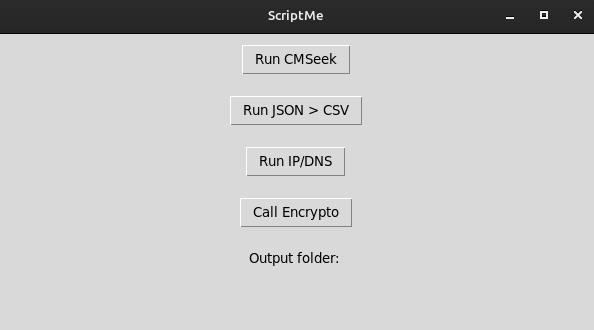
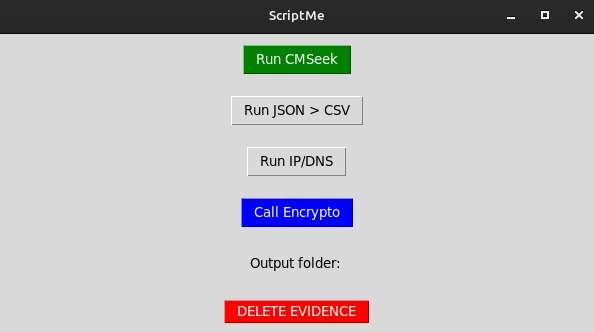
Added a delete button

diff --git a/Projekt/ip_dns.py b/Projekt/ip_dns.py
@@ -1,89 +1,105 @@
+# Ovaj Python kod ima svrhu demonstracije određenih funkcionalnosti pomoću CSV datoteka, radom s mrežom i DNS upitima.
+# Ovaj kod se pruža samo u informativne svrhe i ne predstavlja gotovo rješenje za stvarne primjene.
+# Prije korištenja ovog koda u stvarnom okruženju, preporučuje se pažljiva prilagodba koda specifičnim potrebama,
+# provjera sigurnosnih aspekata i poštivanje pravila o zaštiti podataka. 
+# Autori ovog koda ne snose odgovornost za bilo kakve gubitke ili probleme nastale korištenjem ovog koda.
+
+#################################################################################################################
+
+# Učitavanje potrebnih modula
+import csv  # Modul za rad s CSV datotekama
+import os  # Modul za rad s putanjama i direktorijima
+import socket  # Modul za rad s mrežnim operacijama
+import dns.resolver  # Modul za rad s DNS upitima
+
+
+# Specificiranje imena ulaznog direktorija
 import csv
 import os
 import socket
 import dns.resolver
 
-# Dohvača putanju do root foldera 
+# Dohvaćanje putanje do korijenskog direktorija
 root_folder_path = os.getcwd()
 
-# Specificira ime input foldera
-input_folder_name = 'Projekt/cms_csv'
+# Kreiranje putanje do ulaznog direktorija
+input_folder_name = 'Projekt/cms_csv/'
 
-# Stvara putanju do input foldera
+# Kreiranje putanje do ulaznog direktorija
 input_folder_path = os.path.join(root_folder_path, input_folder_name)
 
-# Specificira ime output foldera
+# Specificiranje imena izlaznog direktorija
 output_folder_name = 'Projekt/IP-DNS'
 
 # Stvara putanju do output foldera
 output_folder_path = os.path.join(root_folder_path, output_folder_name)
 
-# Dohvaća listu svih csv datoteka u input folderu
+# Kreiranje izlaznog direktorija ako ne postoji
 if not os.path.exists(output_folder_path):
     os.makedirs(output_folder_path)
 
-# Dohvaća listu svih csv datoteka u input folderu
+# Dohvaćanje liste svih CSV datoteka u ulaznom direktoriju
 csv_files = [file for file in os.listdir(input_folder_path) if file.endswith('.csv')]
-
+    
 # Petlja prolazi kroz svaku CSV datoteku
 for file in csv_files:
-    # Konstruira putanju za input datoteku
+    # Konstruiranje putanje za ulaznu datoteku
     input_file_path = os.path.join(input_folder_path, file)
 
-    # Izvlači ime datoteke bez ekstenzija
+    # Izvlačenje imena datoteke bez ekstenzije
     file_name = os.path.splitext(file)[0]
 
-    # Konstruira output datoteku sa sufiksom "IPdns"
+    # Konstruiranje imena izlazne datoteke s sufiksom "IP-dns"
     output_file_name = file_name + "_IP-dns.csv"
 
-    # Konstruira putanju za output datoteku
+    # Konstruiranje putanje za izlaznu datoteku
     output_file_path = os.path.join(output_folder_path, output_file_name)
 
-    # Otvara input CSV datoteku
+    # Otvaranje ulazne CSV datoteke
     with open(input_file_path, 'r') as csv_file:
-        # Kreira CSV reader
+        # Kreiranje CSV čitača
         reader = csv.DictReader(csv_file)
 
-        # Kreira listu za spremanje ekstrahiranih podataka
+        # Kreiranje liste za spremanje izvučenih podataka
         data = []
 
-        # Petlja koja prolazi svakim redom CSV datoteke
+        # Petlja koja prolazi kroz svaki redak CSV datoteke
         for row in reader:
-            # Provjerava da li 'url' ključ postoji
+            # Provjera postoji li ključ 'url'
             if 'url' in row:
-                # Izvlači URL iz 'url' stupca
+                # Izvlačenje URL-a iz stupca 'url'
                 url = row['url']
 
-                # Uklanja 'https://' prefiks sa URL-a
+                # Uklanjanje prefiksa 'https://' iz URL-a
                 if url.startswith('https://'):
                     url = url[8:]
 
-                # Pronalazi IP adresu za dobiveni URL
+                # Pronalaženje IP adrese za dobiveni URL
                 try:
                     ip_address = socket.gethostbyname(url)
                 except socket.gaierror:
-                    ip_address = "Not Found"
+                    ip_address = "Nije pronađeno"
 
-                # Pronalazi NS zapise adresu za dobiveni URL
+                # Pronalaženje NS zapisa za dobiveni URL
                 try:
                     ns_records = dns.resolver.resolve(url, 'NS')
                     ns_records = [ns.target.to_text() for ns in ns_records]
                 except (dns.resolver.NoAnswer, dns.resolver.NXDOMAIN, dns.exception.DNSException):
-                    ns_records = "Not Found"
+                    ns_records = "Nije pronađeno"
 
                 # Dodavanje podataka u listu
-                data.append({'URL': url, 'IP Address': ip_address, 'NS Records': ns_records})
+                data.append({'URL': url, 'IP adresa': ip_address, 'NS zapisi': ns_records})
 
-    # Kreira izlaznu CSV datoteku
+    # Kreiranje izlazne CSV datoteke
     with open(output_file_path, 'w', newline='') as output_file:
-        # Definira imena poljua za CSV zapis
-        fieldnames = ['URL', 'IP Address', 'NS Records']
+        # Definiranje imena stupaca za CSV pisca
+        fieldnames = ['URL', 'IP adresa', 'NS zapisi']
 
-        # Kreira CSV zapis
+        # Kreiranje CSV pisca
         writer = csv.DictWriter(output_file, fieldnames=fieldnames)
 
-        # Zapis headera
+        # Pisanje zaglavlja u datoteku
         writer.writeheader()
 
-        # Zapis podatka u izlaznu CSV datoteku
+        # Pisanje podataka u izlaznu CSV datoteku
         writer.writerows(data)

diff --git a/run.py b/run.py
@@ -8,6 +8,8 @@ import tkinter as tk
 import os
 # Importiranje modula za subprocese
 import subprocess
+# Importiranje modula za poruke
+from tkinter import messagebox
 
 
 # Definiranje poziva funkcije run_CMSeek iz CMSeek foldera
@@ -44,6 +46,19 @@ def show_output_folder(folder_name):
     elif os.name == "posix":  # Linux or macOS
         subprocess.Popen(['xdg-open', output_folder])
 
+# Definiramo koji su nam folderi bitni za brisanje
+directory_paths = ['Projekt/cms_csv', 'Projekt/IP-DNS']
+
+# Brisanje svih datoteka unutar gorenavedenih foldera 
+def delete_evidence():
+    for directory_path in directory_paths:
+            print(f"Deleting files in: {directory_path}")
+            for filename in os.listdir(directory_path):
+                file_path = os.path.join(directory_path, filename)
+                if os.path.isfile(file_path):
+                    subprocess.run(['rm', file_path])
+                    print(f"Deleted file: {file_path}")
+    messagebox.showinfo("Deletion Complete", "Nothing ever happened ;)")
 
 # Ovo je TKinter sučelje
 root = tk.Tk()
@@ -53,7 +68,7 @@ root.title("ScriptMe")
 root.geometry("600x300")  
 
 # Definiranje prve tipke
-btn1 = tk.Button(root, text="Run CMSeek", command=run_CMSeek)
+btn1 = tk.Button(root, text="Run CMSeek", fg='white', bg='green', command=run_CMSeek)
 btn1.pack(pady=10)
 
 # Definiranje druge tipke
@@ -65,11 +80,15 @@ btn3 = tk.Button(root, text="Run IP/DNS", command=run_ip_dns)
 btn3.pack(pady=10)
 
 # Definiranje četvrte tipke
-btn4 = tk.Button(root, text="Call Encrypto", command=run_call_encrypto)
+btn4 = tk.Button(root, text="Call Encrypto", fg='white', bg='blue', command=run_call_encrypto)
 btn4.pack(pady=10)
 
 # Definiranje labele koja će nam pokazati koji je izlazni folder
 result_label = tk.Label(root, text="Output folder: ")
-result_label.pack(pady=10)
+result_label.pack(pady=15)
+
+# Brisanje svih stavki unutar cms_csv i IP-DNS foldera
+btn4 = tk.Button(root, text="DELETE EVIDENCE", fg='white', bg='red', command=delete_evidence)
+btn4.pack(pady=10)
 
 root.mainloop()

diff --git a/README.md b/README.md
@@ -40,6 +40,8 @@ Kada pokrenete Encyrpto preko **Browse** tipke nađite i odaberite folder 'Proje
 
 Vaše .csv datoteke su enkriptirane!
 
+p.s. nemojte zaboraviti obrisati trag koristeći **DELETE EVERYTHING** tipku ;)
+
 ![TKinter](Projekt/Screenshots/scriptme.png)
 
 ![Encrypto](Projekt/Screenshots/encrypto.png)
